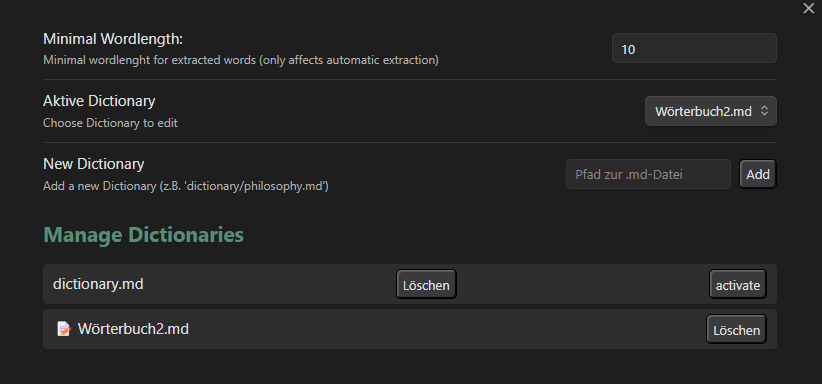
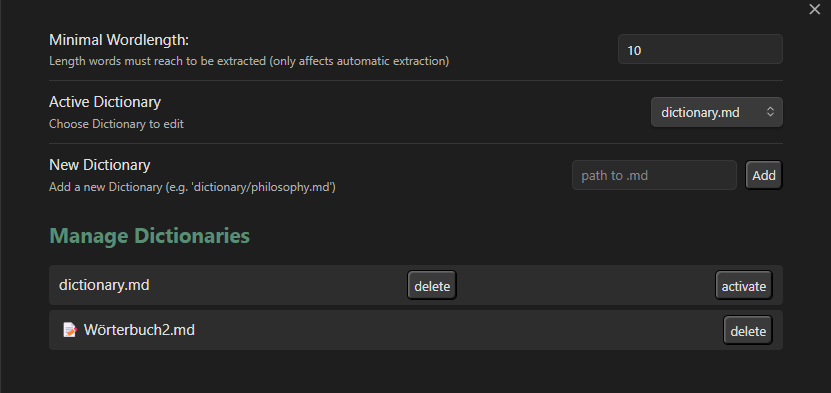
update

diff --git a/main.ts b/main.ts
@@ -303,7 +303,7 @@ class ExtractWordsSettingTab extends PluginSettingTab {
         // Minimale Wortlänge-Einstellung
         new Setting(containerEl)
             .setName("Minimal Wordlength:")
-            .setDesc("Minimal wordlenght for extracted words (only affects automatic extraction)")
+            .setDesc("Length words must reach to be extracted (only affects automatic extraction)")
             .addText(text => text
                 .setPlaceholder("5")
                 .setValue(this.plugin.settings.minWordLength.toString())
@@ -322,7 +322,7 @@ class ExtractWordsSettingTab extends PluginSettingTab {
         }
 
         new Setting(containerEl)
-            .setName("Aktive Dictionary")
+            .setName("Active Dictionary")
             .setDesc("Choose Dictionary to edit")
             .addDropdown(dropdown => {
                 // Füge alle Wörterbücher zum Dropdown hinzu
@@ -343,9 +343,9 @@ class ExtractWordsSettingTab extends PluginSettingTab {
         // Neues Wörterbuch hinzufügen
         new Setting(containerEl)
             .setName("New Dictionary")
-            .setDesc("Add a new Dictionary (z.B. 'dictionary/philosophy.md')")
+            .setDesc("Add a new Dictionary (e.g. 'dictionary/philosophy.md')")
             .addText(text => {
-                text.setPlaceholder("Pfad zur .md-Datei");
+                text.setPlaceholder("path to .md");
                 text.onChange(async (value) => {
                     // Nur speichern, wenn Enter gedrückt wird
                     text.inputEl.addEventListener("keydown", async (e: KeyboardEvent) => {
@@ -431,7 +431,7 @@ class ExtractWordsSettingTab extends PluginSettingTab {
             });
             
             // Löschen-Button
-            const deleteButton = dictItem.createEl("button", { text: "Löschen" });
+            const deleteButton = dictItem.createEl("button", { text: "delete" });
             deleteButton.addEventListener("click", async () => {
                 // Verhindere das Löschen, wenn es das einzige Wörterbuch ist
                 if (this.plugin.settings.dictionaries.length <= 1) {
